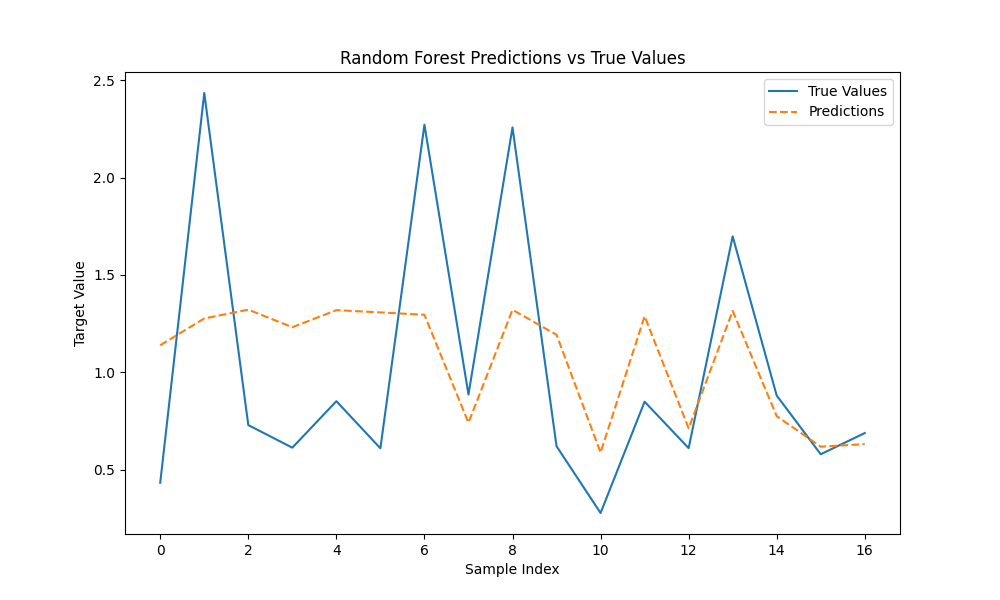
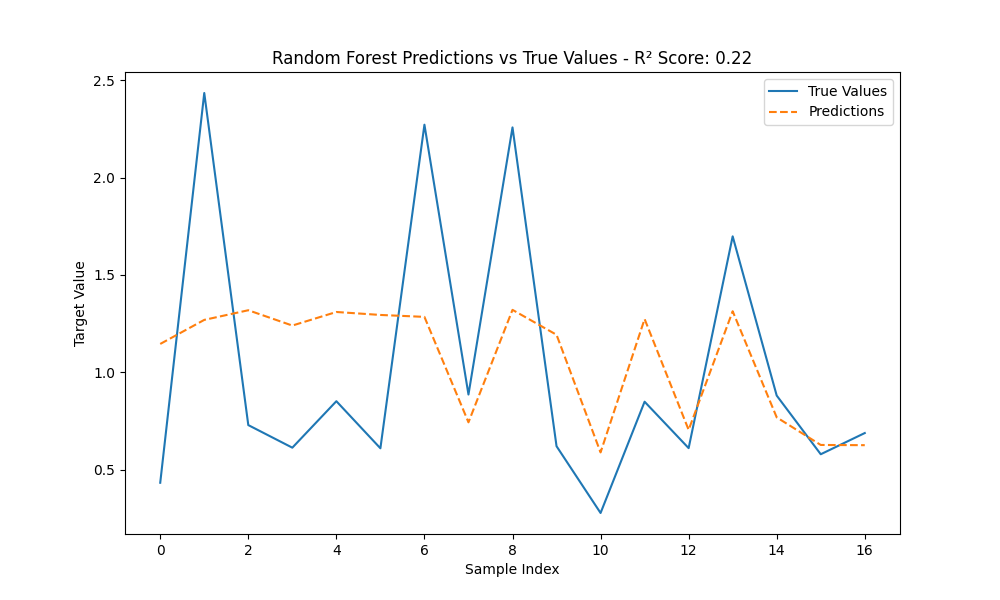
upload Gradio

diff --git a/Gradio_test.py b/Gradio_test.py
@@ -2,46 +2,77 @@ import numpy as np
 import pandas as pd
 from sklearn.model_selection import train_test_split
 from sklearn.ensemble import RandomForestRegressor
-from sklearn.metrics import mean_squared_error
+from sklearn.svm import SVR
+from xgboost import XGBRegressor
+from sklearn.metrics import mean_squared_error, r2_score
 import matplotlib.pyplot as plt
 import gradio as gr
-import os
 
-# 構建隨機森林回歸模型
-model = RandomForestRegressor(n_estimators=1600, max_depth=120, min_samples_leaf=14, min_samples_split=2, n_jobs=-1)
+def all_models():
+    mse_r2 = []
+    models_name = ['Random Forest', 'SVR', 'XGBoost']
+    models = [RandomForestRegressor(n_estimators=1600, max_depth=120, min_samples_leaf=14, min_samples_split=2, n_jobs=-1),
+             SVR(kernel='linear', C=0.097, epsilon=0.13),
+             XGBRegressor(n_estimators=9, random_state=8400)]
+    plt.figure(figsize=(10, 6))
+    plt.plot(y_test.values, label='True Values')
 
-def train_model(data):
+    for i,m  in enumerate(models):
+        # 訓練模型
+        m.fit(X_train, y_train)
+        # 預測
+        y_pred = m.predict(X_test)
+        # 評估
+        mse_r2.append([mean_squared_error(y_test, y_pred),r2_score(y_test, y_pred)])    
+        # 繪製結果圖
+
+        plt.plot(y_pred, label=models_name[i], linestyle='--')
+    plt.legend()
+    plt.xlabel('Sample Index')
+    plt.ylabel('Target Value')
+    plt.title(f'all models Predictions vs True Values - R² Score')
+
+    # 保存圖像到暫存位置
+    plt.savefig('prediction_plot.png')
+    plt.close()       
+    txt=''
+    for i in mse_r2:
+
+        txt+=f'{models_name[mse_r2.index(i)]}: MSE: {i[0]:.2f}, R² Score: {i[1]:.2f}\n'
+
+    return txt, 'prediction_plot.png'
+
+def train_and_predict(data, model_type):
+    global X_train, X_test, y_train, y_test
     # 讀取數據並進行處理
-    features = pd.concat([data.iloc[:, 650:820], data.iloc[:, 850:1220], 
+    features = pd.concat([data.iloc[:, 650:820], data.iloc[:, 850:1220],
                           data.iloc[:, 1250:1750], data.iloc[:, 2800:3000]], axis=1)
+    features= data.iloc[:,:-1]
     target = data.iloc[:, -1]
-    
-    # 確保所有列標題都是字符串類型
-    features.columns = features.columns.astype(str)
 
     # 分割訓練集和測試集
-    X_train, X_test, y_train, y_test = train_test_split(features, target, test_size=0.2, random_state=42)
+    X_train, X_test, y_train, y_test = train_test_split(features, target, test_size=0.2)
+
+    # 根據選擇的模型類型初始化模型
+    if model_type == 'Random Forest':
+        model = RandomForestRegressor(n_estimators=1600, max_depth=120, min_samples_leaf=14, min_samples_split=2, n_jobs=-1)
+    elif model_type == 'SVR':
+        model = SVR(kernel='linear', C=0.097, epsilon=0.13)
+    elif model_type == 'XGBoost':
+        model = XGBRegressor(n_estimators=9, random_state=8400)
+    elif model_type == 'all':
+        return all_models()
+    else:
+        raise ValueError("Invalid model type selected.")
 
     # 訓練模型
     model.fit(X_train, y_train)
-    
-    return X_test, y_test
-
-def predict(file):
-    # 根據文件類型讀取數據
-    if file.name.endswith('.csv'):
-        data = pd.read_csv(file.name)
-    else:
-        data = pd.read_excel(file.name)
-    
-    X_test, y_test = train_model(data)
-    
     # 預測
     y_pred = model.predict(X_test)
-    
     # 評估
     mse = mean_squared_error(y_test, y_pred)
-    
+    r2 = r2_score(y_test, y_pred)
+
     # 繪製結果圖
     plt.figure(figsize=(10, 6))
     plt.plot(y_test.values, label='True Values')
@@ -49,16 +80,22 @@ def predict(file):
     plt.legend()
     plt.xlabel('Sample Index')
     plt.ylabel('Target Value')
-    plt.title('Random Forest Predictions vs True Values')
-    
-    # 保存圖像到當前目錄
-    plot_path = os.path.join(os.getcwd(), 'server/results_plot.png')
-    plt.savefig(plot_path)
-    
-    return f"Test MSE: {mse}", plot_path
+    plt.title(f'{model_type} Predictions vs True Values - R² Score: {r2:.2f}')
 
-inputs = gr.File(label="Upload CSV or XLSX file")
-outputs = [gr.Textbox(label="MSE"), gr.Image(label="Prediction Plot")]
+    # 保存圖像到暫存位置
+    plt.savefig('prediction_plot.png')
+    plt.close()
+    
+    return f"Test MSE: {mse}\nR² Score: {r2}", 'prediction_plot.png'
 
-iface = gr.Interface(fn=predict, inputs=inputs, outputs=outputs, live=True)
+
+def predict(file, model_type):
+    data = pd.read_csv(file) if file.name.endswith('.csv') else pd.read_excel(file)
+    return train_and_predict(data, model_type)
+
+# Gradio 介面設定
+inputs = [gr.File(label="Upload CSV or XLSX file"), gr.Radio(['Random Forest', 'SVR', 'XGBoost','all'], label="Select Model Type")]
+outputs = [gr.Textbox(label="MSE and R² Score"), gr.Image(label="Prediction Plot")]
+
+iface = gr.Interface(fn=predict, inputs=inputs, outputs=outputs, title="Model Selection Interface", live=False)
 iface.launch(share=True)

diff --git a/ML/SVR.py b/ML/SVR.py
@@ -1,0 +1,38 @@
+import pandas as pd
+from sklearn.svm import SVR
+from sklearn.model_selection import train_test_split
+from sklearn.metrics import mean_squared_error, r2_score
+
+# 讀取數據
+data = pd.read_excel('dataset/FTIR_Data.xlsx')
+
+# 選取特定範圍的列作為特徵
+features = pd.concat([data.iloc[:, 650:820], data.iloc[:, 850:1220], 
+                      data.iloc[:, 1250:1750], data.iloc[:, 2800:3000]], axis=1)
+features = data.iloc[:, :-1]
+# 目標變量
+target = data.iloc[:, -1]
+
+# 分割資料集為訓練集和測試集
+random_state = 25
+X_train, X_test, y_train, y_test = train_test_split(features, target, test_size=0.2, random_state=random_state)
+
+# 建立和訓練 SVR 模型
+model = SVR(kernel='linear', C=0.097, epsilon=0.13)
+model.fit(X_train, y_train)
+
+# 預測訓練集和測試集的結果
+y_train_pred = model.predict(X_train)
+y_test_pred = model.predict(X_test)
+
+# 計算 R² 和 MSE
+train_r2 = r2_score(y_train, y_train_pred)
+test_r2 = r2_score(y_test, y_test_pred)
+train_mse = mean_squared_error(y_train, y_train_pred)
+test_mse = mean_squared_error(y_test, y_test_pred)
+
+# 輸出結果
+print(f"Train R²: {train_r2}")
+print(f"Test R²: {test_r2}")
+print(f"Train MSE: {train_mse}")
+print(f"Test MSE: {test_mse}")
